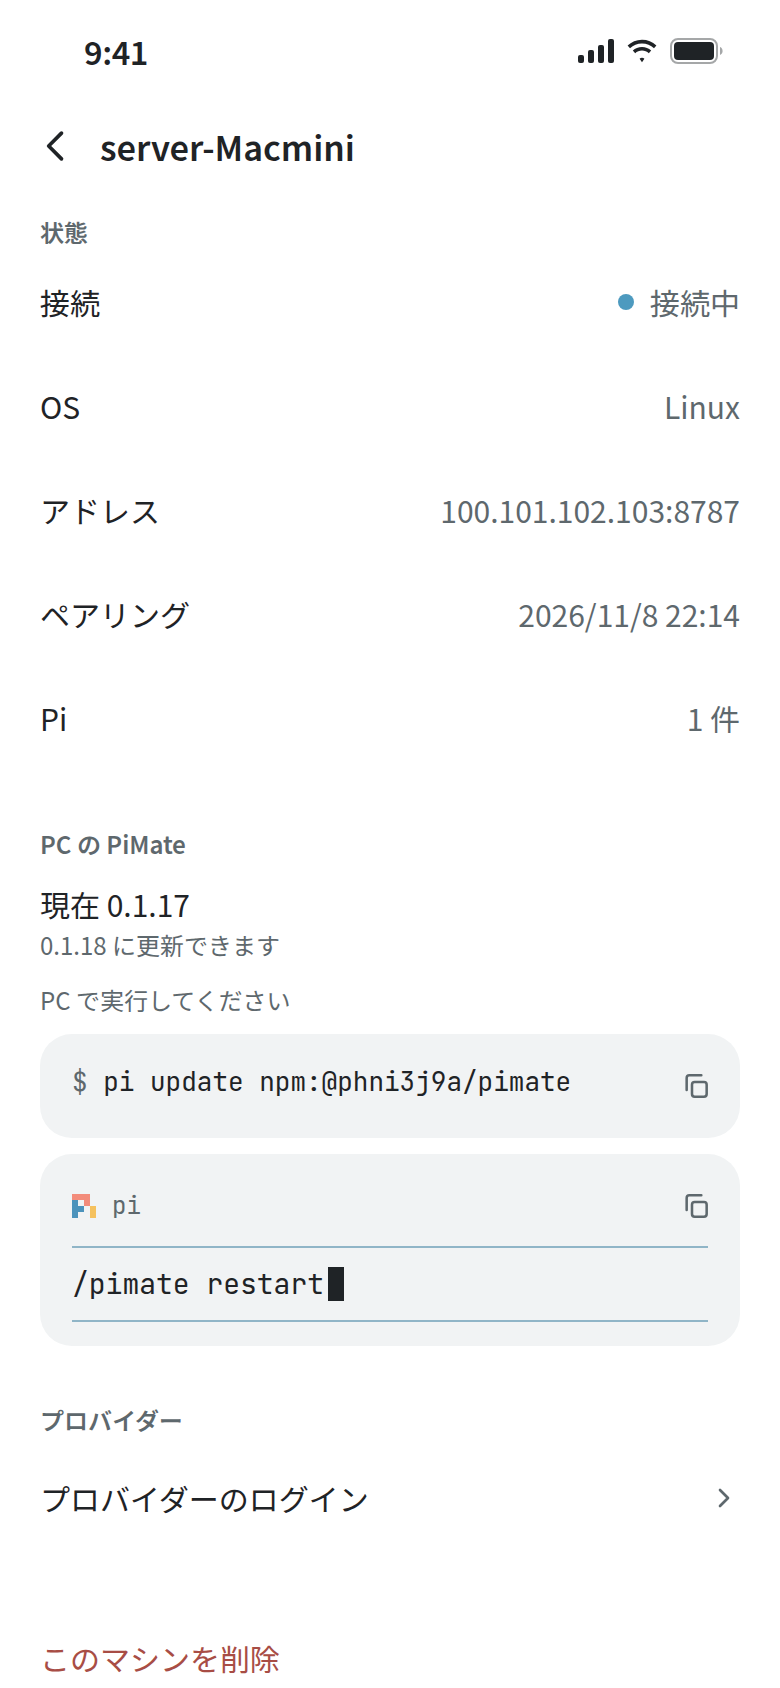
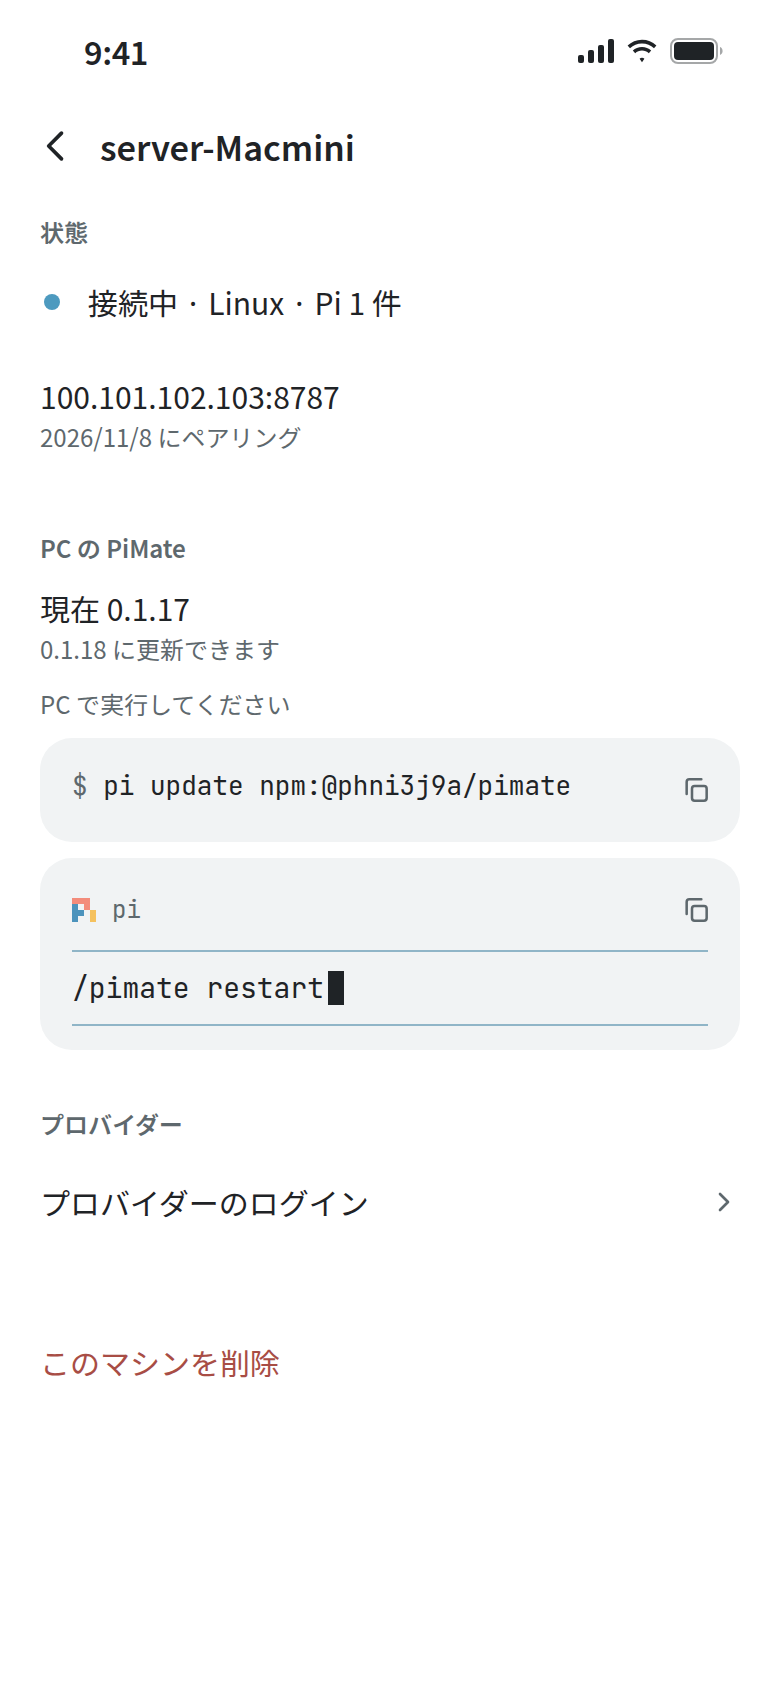
docs: concrete versions in the Settings mock and the compact machine detail

diff --git a/docs/design/html/Machine-Detail.html b/docs/design/html/Machine-Detail.html
@@ -29,42 +29,14 @@ html,body{margin:0;overflow:hidden}
 
   <main style="flex: 1; min-height: 0; overflow: hidden; padding: 8px 20px 24px; display: flex; flex-direction: column">
     <div style="font-size: 12px; font-weight: 600; color: #5E686D">状態</div>
-    
-      <div style="min-height: 52px; display: flex; align-items: center; gap: 12px">
-        <span style="font-size: 15px">接続</span>
-        <span style="flex: 1; display: flex; align-items: center; justify-content: flex-end; gap: 8px; font-size: 15px; color: #5E686D">
-          <span style="width: 8px; height: 8px; border-radius: 4px; background: #4D9ABF; display: inline-block"></span>接続中
-        </span>
-      </div>
-    
-      <div style="min-height: 52px; display: flex; align-items: center; gap: 12px">
-        <span style="font-size: 15px">OS</span>
-        <span style="flex: 1; display: flex; align-items: center; justify-content: flex-end; gap: 8px; font-size: 15px; color: #5E686D">
-          <span style="width: 8px; height: 8px; border-radius: 4px; background: #4D9ABF; display: none"></span>Linux
-        </span>
-      </div>
-    
-      <div style="min-height: 52px; display: flex; align-items: center; gap: 12px">
-        <span style="font-size: 15px">アドレス</span>
-        <span style="flex: 1; display: flex; align-items: center; justify-content: flex-end; gap: 8px; font-size: 15px; color: #5E686D">
-          <span style="width: 8px; height: 8px; border-radius: 4px; background: #4D9ABF; display: none"></span>100.101.102.103:8787
-        </span>
-      </div>
-    
-      <div style="min-height: 52px; display: flex; align-items: center; gap: 12px">
-        <span style="font-size: 15px">ペアリング</span>
-        <span style="flex: 1; display: flex; align-items: center; justify-content: flex-end; gap: 8px; font-size: 15px; color: #5E686D">
-          <span style="width: 8px; height: 8px; border-radius: 4px; background: #4D9ABF; display: none"></span>2026/11/8 22:14
-        </span>
-      </div>
-    
-      <div style="min-height: 52px; display: flex; align-items: center; gap: 12px">
-        <span style="font-size: 15px">Pi</span>
-        <span style="flex: 1; display: flex; align-items: center; justify-content: flex-end; gap: 8px; font-size: 15px; color: #5E686D">
-          <span style="width: 8px; height: 8px; border-radius: 4px; background: #4D9ABF; display: none"></span>1 件
-        </span>
-      </div>
-    
+    <div style="min-height: 52px; display: flex; align-items: center; gap: 12px">
+      <span style="width: 12px; display: flex; justify-content: center"><span style="width: 8px; height: 8px; border-radius: 4px; background: #4D9ABF"></span></span>
+      <span style="flex: 1; font-size: 15px">接続中 · Linux · Pi 1 件</span>
+    </div>
+    <div style="min-height: 60px; display: flex; flex-direction: column; justify-content: center; padding: 8px 0; box-sizing: border-box">
+      <span style="font-size: 15px">100.101.102.103:8787</span>
+      <span style="font-size: 12px; color: #5E686D">2026/11/8 にペアリング</span>
+    </div>
     <div style="margin-top: 28px; font-size: 12px; font-weight: 600; color: #5E686D">PC の PiMate</div>
     <div style="min-height: 60px; display: flex; flex-direction: column; justify-content: center; padding: 8px 0; box-sizing: border-box">
       <span style="font-size: 15px">現在 0.1.17</span>

diff --git a/docs/design/mock/Machine-Detail.dc.html b/docs/design/mock/Machine-Detail.dc.html
@@ -34,14 +34,14 @@ html,body{margin:0;overflow:hidden}
 
   <main style="flex: 1; min-height: 0; overflow: hidden; padding: 8px 20px 24px; display: flex; flex-direction: column">
     <div style="font-size: 12px; font-weight: 600; color: #5E686D">状態</div>
-    <sc-for list="{{info}}" as="r" hint-placeholder-count="5">
-      <div style="min-height: 52px; display: flex; align-items: center; gap: 12px">
-        <span style="font-size: 15px">{{r.label}}</span>
-        <span style="flex: 1; display: flex; align-items: center; justify-content: flex-end; gap: 8px; font-size: 15px; color: #5E686D">
-          <span style="width: 8px; height: 8px; border-radius: 4px; background: #4D9ABF; display: {{r.mark}}"></span>{{r.value}}
-        </span>
-      </div>
-    </sc-for>
+    <div style="min-height: 52px; display: flex; align-items: center; gap: 12px">
+      <span style="width: 12px; display: flex; justify-content: center"><span style="width: 8px; height: 8px; border-radius: 4px; background: #4D9ABF"></span></span>
+      <span style="flex: 1; font-size: 15px">接続中 · Linux · Pi 1 件</span>
+    </div>
+    <div style="min-height: 60px; display: flex; flex-direction: column; justify-content: center; padding: 8px 0; box-sizing: border-box">
+      <span style="font-size: 15px">100.101.102.103:8787</span>
+      <span style="font-size: 12px; color: #5E686D">2026/11/8 にペアリング</span>
+    </div>
     <div style="margin-top: 28px; font-size: 12px; font-weight: 600; color: #5E686D">PC の PiMate</div>
     <div style="min-height: 60px; display: flex; flex-direction: column; justify-content: center; padding: 8px 0; box-sizing: border-box">
       <span style="font-size: 15px">現在 0.1.17</span>
@@ -80,20 +80,7 @@ html,body{margin:0;overflow:hidden}
 </div>
 </x-dc>
 <script type="text/x-dc" data-dc-script data-props='{"$preview":{"width":390,"height":844}}'>
-class Component extends DCLogic {
-  renderVals() {
-    const row = (label, value, mark) => ({ label: label, value: value, mark: mark ? 'inline-block' : 'none' });
-    return {
-      info: [
-        row('接続', '接続中', true),
-        row('OS', 'Linux'),
-        row('アドレス', '100.101.102.103:8787'),
-        row('ペアリング', '2026/11/8 22:14'),
-        row('Pi', '1 件')
-      ]
-    };
-  }
-}
+class Component extends DCLogic {}
 </script>
 </body>
 </html>

diff --git a/docs/design/html/Settings.html b/docs/design/html/Settings.html
@@ -92,8 +92,8 @@ html,body{margin:0;overflow:hidden}
     <button style="min-height: 60px; display: flex; align-items: center; gap: 12px; border: 0; padding: 8px 0; background: transparent; color: #1F2326; font-family: inherit; text-align: left">
       <img src="../icon-kit/logo/mark-light-1024.png" alt="" width="20" height="20" style="width: 20px; height: 20px; display: block">
       <span style="flex: 1; display: flex; flex-direction: column">
-        <span style="font-size: 15px">PiMate [VERSION]</span>
-        <span style="font-size: 12px; color: #155A7A">[VERSION] に更新できます</span>
+        <span style="font-size: 15px">PiMate 0.1.13</span>
+        <span style="font-size: 12px; color: #155A7A">0.1.14 に更新できます</span>
       </span>
       <svg width="14" height="14" viewBox="0 0 24 24" aria-hidden="true" style="flex-shrink: 0; fill: none; stroke: #155A7A; stroke-width: 2; stroke-linecap: round; stroke-linejoin: round"><path d="M14 4h6v6M20 4l-9 9M18 14v4.5a1.5 1.5 0 0 1-1.5 1.5h-11A1.5 1.5 0 0 1 4 18.5v-11A1.5 1.5 0 0 1 5.5 6H10"></path></svg>
     </button>

diff --git a/docs/design/mock/Settings.dc.html b/docs/design/mock/Settings.dc.html
@@ -88,8 +88,8 @@ html,body{margin:0;overflow:hidden}
     <button style="min-height: 60px; display: flex; align-items: center; gap: 12px; border: 0; padding: 8px 0; background: transparent; color: #1F2326; font-family: inherit; text-align: left">
       <img src="../icon-kit/logo/mark-light-1024.png" alt="" width="20" height="20" style="width: 20px; height: 20px; display: block">
       <span style="flex: 1; display: flex; flex-direction: column">
-        <span style="font-size: 15px">PiMate [VERSION]</span>
-        <span style="font-size: 12px; color: #155A7A">[VERSION] に更新できます</span>
+        <span style="font-size: 15px">PiMate 0.1.13</span>
+        <span style="font-size: 12px; color: #155A7A">0.1.14 に更新できます</span>
       </span>
       <svg width="14" height="14" viewBox="0 0 24 24" aria-hidden="true" style="flex-shrink: 0; fill: none; stroke: #155A7A; stroke-width: 2; stroke-linecap: round; stroke-linejoin: round"><path d="M14 4h6v6M20 4l-9 9M18 14v4.5a1.5 1.5 0 0 1-1.5 1.5h-11A1.5 1.5 0 0 1 4 18.5v-11A1.5 1.5 0 0 1 5.5 6H10"></path></svg>
     </button>

diff --git a/apps/mobile/README.md b/apps/mobile/README.md
@@ -39,7 +39,7 @@ M1:
 - 割り込みが本文へ反映される前に停止した場合は、本文＋画像を送信単位ごとの未確認行に残します。PC の入力欄に戻っている場合があるため、履歴を確認してください。編集中の下書きや添付は変更しません。「下書きへ戻す」は入力欄の本文と添付が両方空、かつ同じセッションのときだけ使えます。戻しても自動では送信しません。下書き・未確認行はメモリ内のみで、アプリ終了を越えて保持しません。未確認行は Pi の選択変更でも消えます。
 - 接続: 自動再接続（待ち時間を伸ばしながら）、前面復帰時の再接続と再購読。送れたか不明な送信は自動で再送しない
 - 設定（[#124](https://github.com/phni3j9a/PiMate/issues/124)）: 「マシン」（行をタップでマシン詳細）、「通知」（オフ／要対応／すべて）、「新しい Pi の既定」（質問ツール `pimate_ask` の初期値。新しい Pi 画面の最後の値と共通）、「表示」、「情報」（アプリの版と更新の確認、使い方、不具合の報告）。アプリの更新は設定を開いたときに GitHub Releases を1回だけ確認し、新しい版があればタップでリリースのページを開きます
-- マシン詳細: 状態（接続・OS・アドレス・ペアリング日時・Pi の件数。オフラインなら「今すぐ再接続」、認証が切れたら「ペアリングし直す」）、PC の PiMate（版と更新。アプリから更新できない PC では PC で打つコマンドをコピーできる）、プロバイダーのログイン、最下段に「このマシンを削除」
+- マシン詳細: 状態（接続・OS・Pi の件数とアドレス・ペアリング日。オフラインなら「今すぐ再接続」、認証が切れたら「ペアリングし直す」）、PC の PiMate（版と更新。常駐していない Host では PC で打つコマンドをコピーできる。開発版の checkout は PC で更新）、プロバイダーのログイン、最下段に「このマシンを削除」
 
 M2:
 

diff --git a/docs/design/README.md b/docs/design/README.md
@@ -38,7 +38,7 @@
 | `Subagent-Detail` | サブエージェント — pi-subagents | 親からの依頼、子の作業記録、子への指示、一時停止 |
 | `Subagent-Detail-Readonly` | サブエージェント — 公式サンプル | 見るだけの画面、チェーンの進み具合、全体の停止 |
 | `Settings` | 設定 | マシン（行からマシン詳細へ）、通知の段階（オフ / 要対応 / すべて）、新しい Pi の既定（質問ツール）、表示、情報（版と更新、使い方、不具合の報告） |
-| `Machine-Detail` | マシン詳細 | 状態（接続・OS・アドレス・ペアリング日時・Pi の件数）、PC の PiMate（アプリから更新できない PC では PC で打つコマンドのコピー。常駐の Host なら「更新」）、プロバイダーのログイン、最下段の削除（赤い文字） |
+| `Machine-Detail` | マシン詳細 | 状態（接続・OS・Pi の件数の1行と、アドレス・ペアリング日の1行）、PC の PiMate（常駐していない Host では PC で打つコマンドのコピー、開発版は PC で更新の1行。常駐の Host なら「更新」）、プロバイダーのログイン、最下段の削除（赤い文字） |
 | `Pair` | ペアリング — 最初の画面 | PC の Pi の見本（Pi の入力欄と同じ形とロゴ）、等幅の番号タイルの3手順。準備済みならすぐ QR を読める |
 | `Setup-Tailscale` | ペアリング — Tailscale でつなぐ | ヘッダーの進み具合（ピクセル）、スマホと PC を点線でつなぐ絵、ストアへの導線、Tailscale 非対応の Android（8.0 未満）の表示（Tweaks の `oldAndroid`） |
 | `Setup-PC` | ペアリング — PC に PiMate を入れる | シェルのコマンド（`$`）と Pi の中のコマンド（Pi の入力欄）を別の見た目に、コピー・共有、`/pimate pair` での出し直し |
